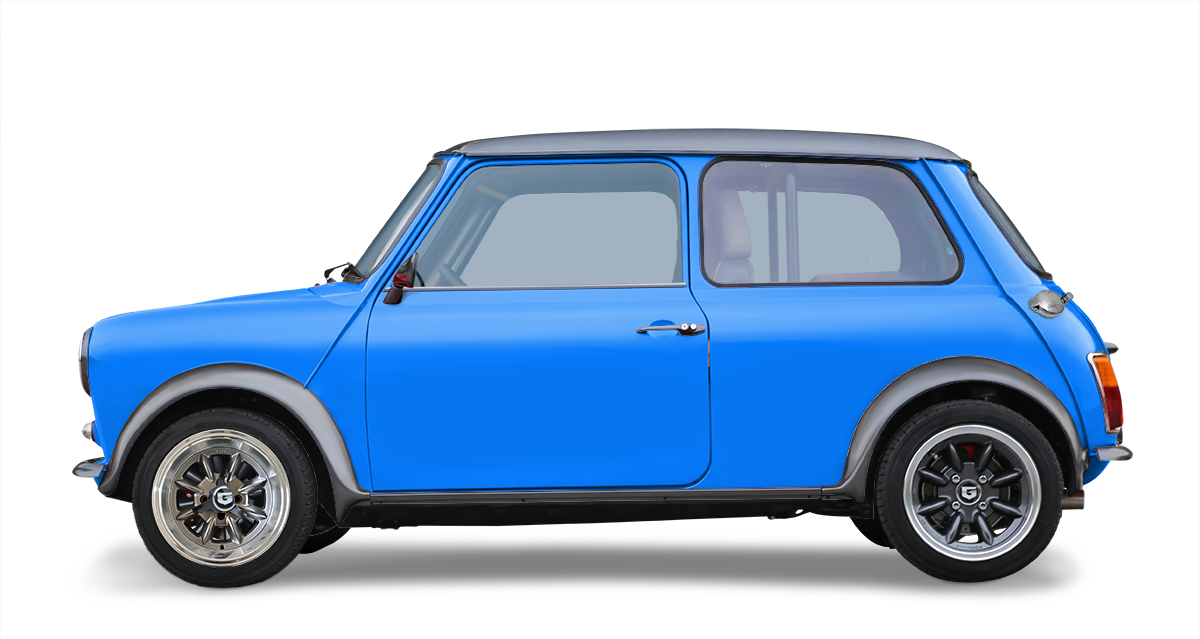
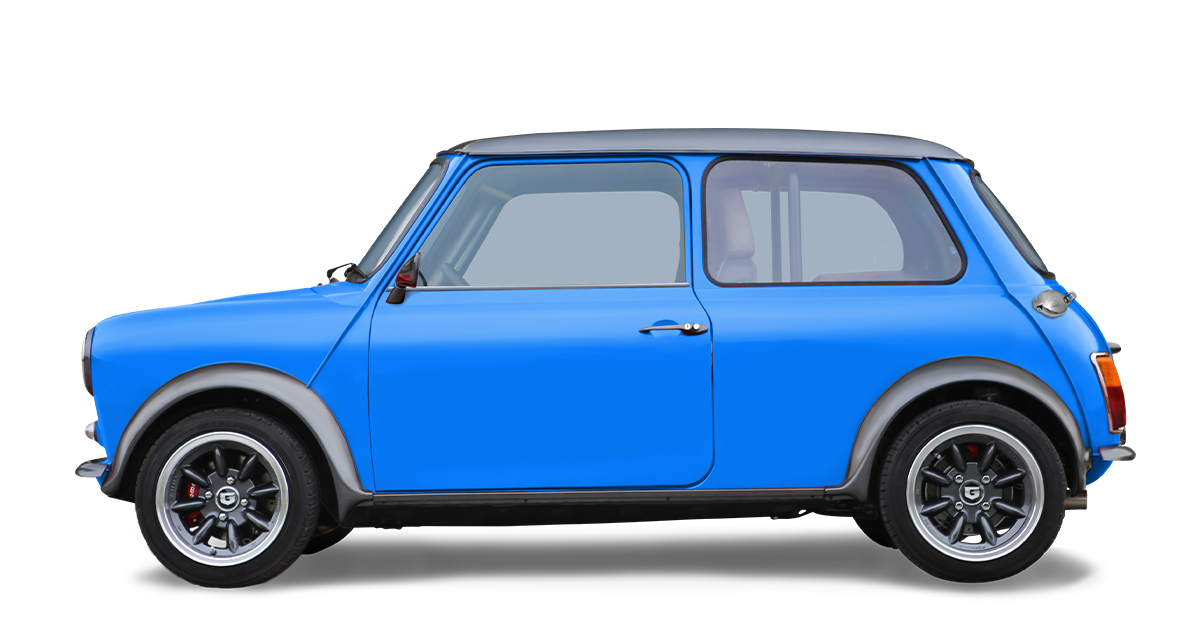
fixed light blue and skyblue rims and css focus attribute

Changed region(s): [[0.0617, 0.2081, 0.9558, 0.9515], [0.6167, 0.2973, 0.6783, 0.446], [0.4008, 0.3271, 0.4317, 0.3568]]

diff --git a/car-configurator/src/Body/Body.jsx b/car-configurator/src/Body/Body.jsx
@@ -51,7 +51,7 @@ class Body extends React.Component {
     <div className="row">
         <div className="col-md-8">
             <div className="col">
-                <img id="car" alt="" src={this.state.isRed && this.state.rimOne ? "/Assets/red.png" : this.state.isRed && this.state.rimTwo ? "/Assets/red2.png" : this.state.isBlue && this.state.rimOne ? "/Assets/Blue.png" : this.state.isBlue && this.state.rimTwo ? "/Assets/Blue2.png" : this.state.isLightBlue && this.state.rimOne ? "/Assets/lightblue.png" : this.state.isLightBlue && this.state.rimTwo ? "/Assets/lightblue2.png" : this.state.isSkyBlue && this.state.rimOne ? "/Assets/Skyblue.png" : this.state.isSkyBlue && this.state.rimTwo ? "/Assets/Skyblue2.png" : this.state.isWhite && this.state.rimOne ? "/Assets/White.png" : this.state.isWhite && this.state.rimTwo ? "/Assets/white2.png" : null}></img>
+                <img id="car" alt="" height="200" width="500" src={this.state.isRed && this.state.rimOne ? "/Assets/red.png" : this.state.isRed && this.state.rimTwo ? "/Assets/red2.png" : this.state.isBlue && this.state.rimOne ? "/Assets/Blue.png" : this.state.isBlue && this.state.rimTwo ? "/Assets/Blue2.png" : this.state.isLightBlue && this.state.rimOne ? "/Assets/lightblue.png" : this.state.isLightBlue && this.state.rimTwo ? "/Assets/lightblue2.png" : this.state.isSkyBlue && this.state.rimOne ? "/Assets/Skyblue.png" : this.state.isSkyBlue && this.state.rimTwo ? "/Assets/Skyblue2.png" : this.state.isWhite && this.state.rimOne ? "/Assets/White.png" : this.state.isWhite && this.state.rimTwo ? "/Assets/white2.png" : null}></img>
             </div>
         </div>
         <div className="col-md-4" id="settings">
@@ -69,11 +69,11 @@ class Body extends React.Component {
             </div> */}
             <div className="row" id="wheeltitle">Tire Rims</div>
             <div className="row" id="wheeloptions">
-                <div className="col"><button id="rimOne" onClick={()=>this.handleSubmitButton("rimOne")}><img id="rim1img" src="/Assets/rim-1.png"></img></button></div>
-                <div className="col"><button id="rimTwo" onClick={()=>this.handleSubmitButton("rimTwo")}><img id="rim2img" src="/Assets/rim-2.png"></img></button></div>
-                <div className="col"><button id="rimTwo" onClick={()=>this.handleSubmitButton("rimTwo")}><img id="rim3img" src="/Assets/rim-3.png"></img></button></div>
-                <div className="col"><button id="rimTwo" onClick={()=>this.handleSubmitButton("rimTwo")}><img id="rim4img" src="/Assets/rim-4.png"></img></button></div>
-                <div className="col"><button id="rimTwo" onClick={()=>this.handleSubmitButton("rimTwo")}><img id="rim2img" src="/Assets/rim-5.png"></img></button></div>
+                <div className="col"><button className="rim-btn1" id="rimOne" onClick={()=>this.handleSubmitButton("rimOne")}><img id="rim1img" src="/Assets/rim-1.png"></img></button></div>
+                <div className="col"><button className="rim-btn" id="rimTwo" onClick={()=>this.handleSubmitButton("rimTwo")}><img id="rim2img" src="/Assets/rim-2.png"></img></button></div>
+                <div className="col"><button className="rim-btn" id="rimTwo" onClick={()=>this.handleSubmitButton("rimTwo")}><img id="rim3img" src="/Assets/rim-3.png"></img></button></div>
+                <div className="col"><button className="rim-btn" id="rimTwo" onClick={()=>this.handleSubmitButton("rimTwo")}><img id="rim4img" src="/Assets/rim-4.png"></img></button></div>
+                <div className="col"><button className="rim-btn" id="rimTwo" onClick={()=>this.handleSubmitButton("rimTwo")}><img id="rim2img" src="/Assets/rim-5.png"></img></button></div>
             </div>
         </div>
     </div>

diff --git a/car-configurator/src/App/App.jsx b/car-configurator/src/App/App.jsx
@@ -1,24 +1,13 @@
 import React from 'react';
 import './App.css';
 import Body from '../Body/Body';
+import Navbar from "../Components/Navbar/Navbar"
 
 function App() {
   return (
     <div className="App">
-      <nav className="navbar navbar-expand-lg navbar-light bg-light">
-        <img id="logo" src="/Assets/GR logo.png"></img>
-        <button className="navbar-toggler" type="button" data-toggle="collapse" data-target="#navbarNav" aria-controls="navbarNav" aria-expanded="false" aria-label="Toggle navigation">
-          <span className="navbar-toggler-icon"></span>
-        </button>
-        <div className="collapse navbar-collapse" id="navbarNav">
-            <ul className="navbar-nav">
-              <button id="navbarbtn">Order Your Super Cooper</button>
-            </ul>
-        </div>
-    </nav>
+      <Navbar />
       <Body />
-
-
     <div className="bottom-page">
         <footer>
             <p id="copyright">Copyright© Gildred Racing | Configurator Developed by <a href= 'https://www.linkedin.com/in/johnharmon805/' >John Harmon</a> & <a href= 'https://www.linkedin.com/in/andrewdavidlee7/' >Andrew Lee</a></p>

diff --git a/car-configurator/src/Body/Body.css b/car-configurator/src/Body/Body.css
@@ -24,12 +24,39 @@
 }
 /* Button colors here: */
 #red-btn, #white-btn, #lightblue-btn, #skyblue-btn, #blue-btn {
-    height: 50px;
+    height: 70px;
+    padding-top: 5px;
+    padding-bottom: 5px;
 }
 .color-btns {
     background-color: transparent;
     border: none;
     border-radius: 100%;
+}
+.color-btns:focus {
+    box-shadow: 0 0 5px blue;
+    outline: none;
+}
+.rim-btn {
+    background-color: transparent;
+    border: none;
+    border-radius: 100%;
+    padding-top: 5px;
+    padding-bottom: 5px;
+}
+.rim-btn:focus {
+    box-shadow: 0 0 5px blue;
+    outline: none;
+}
+.rim-btn1 {
+    background-color: transparent;
+    border: none;
+    border-radius: 100%;
+    padding: 0;
+}
+.rim-btn1:focus {
+    box-shadow: 0 0 5px blue;
+    outline: none;
 }
 #car {
     height: 300px;
@@ -50,11 +77,6 @@
 #rim5img {
     height: 80px;
 } 
-#rimTwo, #rimOne {
-    background-color: transparent;
-    border: none;
-}
-
 #colorstitle {
     margin-top: 50px;
     margin-left: 40px;

diff --git a/car-configurator/src/Components/Navbar/Navbar.jsx b/car-configurator/src/Components/Navbar/Navbar.jsx
@@ -1,0 +1,26 @@
+import React from "react";
+
+function Navbar(){
+    return (
+      <nav className="navbar navbar-expand-lg navbar-light bg-light">
+        <img id="logo" src="/Assets/GR logo.png"></img>
+        <button
+          className="navbar-toggler"
+          type="button"
+          data-toggle="collapse"
+          data-target="#navbarNav"
+          aria-controls="navbarNav"
+          aria-expanded="false"
+          aria-label="Toggle navigation"
+        >
+          <span className="navbar-toggler-icon"></span>
+        </button>
+        <div className="collapse navbar-collapse" id="navbarNav">
+          <ul className="navbar-nav">
+            <button id="navbarbtn">Order Your Super Cooper</button>
+          </ul>
+        </div>
+      </nav>
+    );
+}
+export default Navbar;
